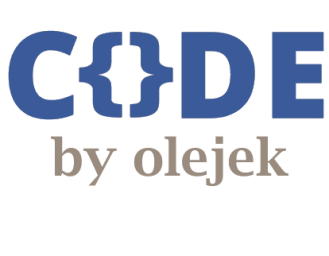
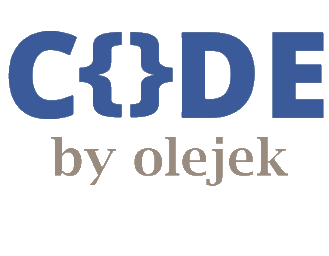
Change pictures and some styles of main page

diff --git a/src/components/Home/CategoryHeader.js b/src/components/Home/CategoryHeader.js
@@ -42,20 +42,20 @@ class CategoryHeader extends React.Component {
                                                     <div className="elementor-widget-wrap">
                                                         <div
                                                             className="elementor-element elementor-element-dfde740 elementor-hidden-phone elementor-widget elementor-widget-image">
-                                                                    <img src={"images/side-img-header1.png"}
-                                                                         className="attachment-large size-large"
-                                                                         alt=""
-                                                                         srcSet={"images/side-img-header1.png"}
-                                                                         sizes="(max-width: 454px) 100vw, 454px"
-                                                                         width="454" height="340"/></div>
+                                                            <img src={"images/side-img-header1.png"}
+                                                                 className="attachment-large size-large"
+                                                                 alt=""
+                                                                 srcSet={"images/side-img-header1.png"}
+                                                                 sizes="(max-width: 454px) 100vw, 454px"
+                                                                 width="454" height="340"/></div>
                                                     </div>
                                                 </div>
                                             </div>
+                                            {this.state.type !== 'main' && <HeaderTitle title={this.state.title}/>}
                                         </div>
-                                        {this.state.type !== 'main' && <HeaderTitle title={this.state.title}/>}
                                     </div>
                                 </section>
-                                {this.state.type === 'main' && <CategoryHeaderTitle title={this.state.title}/>}
+                                <CategoryHeaderTitle title={this.state.type === 'main' && this.state.title}/>
                             </div>
                         </div>
                     </div>

diff --git a/src/components/Header/Header.js b/src/components/Header/Header.js
@@ -6,9 +6,11 @@ class Header extends React.Component {
     constructor(props) {
         super(props);
         this.state = {
-            width: 1920
+            width: 1920,
+            class: 'site-header fixed'
         };
         this.updateDimensions = this.updateDimensions.bind(this);
+        this.handleScroll = this.handleScroll.bind(this)
     }
 
     updateDimensions() {
@@ -18,15 +20,38 @@ class Header extends React.Component {
 
     componentDidMount() {
         window.addEventListener("resize", this.updateDimensions);
+        window.addEventListener('scroll', this.handleScroll);
     }
 
     componentWillUnmount() {
         window.removeEventListener("resize", this.updateDimensions);
     }
 
+    handleScroll() {
+        let masthead = document.getElementById('masthead');
+        let rect = masthead.getBoundingClientRect();
+        console.log(rect);
+        if (rect) {
+            let e = window.pageYOffset;
+            console.log(" e=" + e);
+            if (e < 100) {
+                this.setState({class: 'site-header fixed'});
+                console.log("site-header fixed");
+            } else {
+                this.setState({class: 'site-header fixed float-header'});
+                console.log("site-header fixed float-header");
+            }
+            /*
+                        i <= e ? (masthead.addClass("fixed"), n("body").addClass("siteScrolled")) : (n(".site-header").removeClass("fixed"),
+                            n("body").removeClass("siteScrolled")), 107 <= e ? n(".site-header").addClass("float-header") : n(".site-header").removeClass("float-header")
+            */
+
+        }
+    }
+
     render() {
         return (
-            <header id="masthead" className="site-header fixed" role="banner">
+            <header id="masthead" ref="masthead" className={this.state.class} role="banner">
                 <div className="header-wrap">
                     <div className="container">
                         <div className="row">

diff --git a/src/components/Home/CategoryTitle.js b/src/components/Home/CategoryTitle.js
@@ -4,21 +4,17 @@ class CategoryTitle extends React.Component {
     render() {
         return (
             <div className="blog-page">
-                <a className="newsfilter filternewslink" href="/" title="website">
-                    <img src={'images/promotional.png'} alt="blog"/>
-                    <p> Website </p>
+                <a className="newsfilter filternewslink" href={"projects/category/2"} title="system">
+                    <img src={'images/system.png'} alt="system"/>
+                    <p> Systems </p>
                 </a>
-                <a className="newsfilter filternewslink" href="/" title="e-commerce">
-                    <img src={'images/ecommerce.png'} alt="blog"/>
-                    <p> E-commerce </p>
+                <a className="newsfilter filternewslink" href={"projects/category/4"} title="applications">
+                    <img src={'images/laptop.png'} alt="app"/>
+                    <p> Applications </p>
                 </a>
-                <a className="newsfilter filternewslink" href="/" title="mobile-app">
-                    <img src={'images/mobile-1.png'} alt="blog"/>
-                    <p> Mobile App </p>
-                </a>
-                <a className="newsfilter filternewslink" href="/" title="custom">
-                    <img src={'images/more.png'} alt="blog"/>
-                    <p> Custom </p>
+                <a className="newsfilter filternewslink" href={"projects/category/3"} title="mobile-app">
+                    <img src={'images/mobile.png'} alt="mobile-app"/>
+                    <p> Android </p>
                 </a>
             </div>
         );

diff --git a/public/olejek.css b/public/olejek.css
@@ -304,13 +304,13 @@ button.buy-book {
 }
 
 .image-book-content .heading {
-    color: #58b6a2;
+    color: #3b5a99;
 }
 
 .software .feed-software h3 {
     font-family: montserrat, myriad pro regular;
     font-weight: 400;
-    color: #58b6a2;
+    color: #3b5a99;
     line-height: 45px;
 }
 
@@ -318,7 +318,7 @@ button.buy-book {
     background: #ffffff;
     margin-right: 10px;
     cursor: pointer;
-    color: #58b6a2;
+    color: #3b5a99;
 }
 
 .social-block .circle {
@@ -348,14 +348,14 @@ button.buy-book {
 }
 
 .faq-section p.question {
-    color: #58b6a2;
+    color: #3b5a99;
     font-weight: 700;
     font-size: 18px;
 }
 
 .download-right .getintro {
     font-family: montserrat, myriad pro regular;
-    color: #58b6a2;
+    color: #3b5a99;
     line-height: 45px;
 }
 
@@ -453,7 +453,7 @@ aside#text-8 .row {
 .about-pop-title {
     font-family: montserrat, myriad pro regular;
     font-weight: 400;
-    color: #58b6a2;
+    color: #3b5a99;
 }
 
 .page-template-about .post-cart p {
@@ -760,7 +760,7 @@ span#cn-notice-text a {
 }
 
 .elementor-main .elementor-element.elementor-element-div .elementor-heading-title {
-    color: #58b6a2;
+    color: #3b5a99;
     font-family: montserrat, myriad pro regular;
     font-weight: 400
 }
@@ -858,7 +858,7 @@ span#cn-notice-text a {
 }
 
 .elementor-project .elementor-element.elementor-element-div .elementor-heading-title {
-    color: #58b6a2;
+    color: #3b5a99;
     font-family: montserrat, myriad pro regular;
     font-weight: 400
 }

diff --git a/src/components/Home/About.js b/src/components/Home/About.js
@@ -32,7 +32,7 @@ class About extends React.Component {
                                                     </a>
                                                     <img alt=""
                                                          className="avatar avatar-user width-full border bg-white"
-                                                         src="https://avatars2.githubusercontent.com/u/11804878?s=460&amp;u=37befc3e94926cb47ce03d69b154707a11f30e27&amp;v=4"
+                                                         src={"images/avatar.png"}
                                                          width="260" height="260"/>
                                                 </div>
                                             </div>

diff --git a/src/components/SiteMenu.js b/src/components/SiteMenu.js
@@ -128,7 +128,7 @@ class SiteMenu extends React.Component {
                                         </div>
                                         <div className="col-md-3" style={{textAlign: 'center'}}>
                                             <a href="http://linkedin.com/shtrm">
-                                                <img src={"images/linkedin.png"} alt="linkedin"/></a>
+                                                <img src={"images/linkedin2.png"} alt="linkedin"/></a>
                                             <p className="get-text-footer">Linkedin</p>
                                         </div>
                                         <div className="col-md-3" style={{textAlign: 'center'}}>
